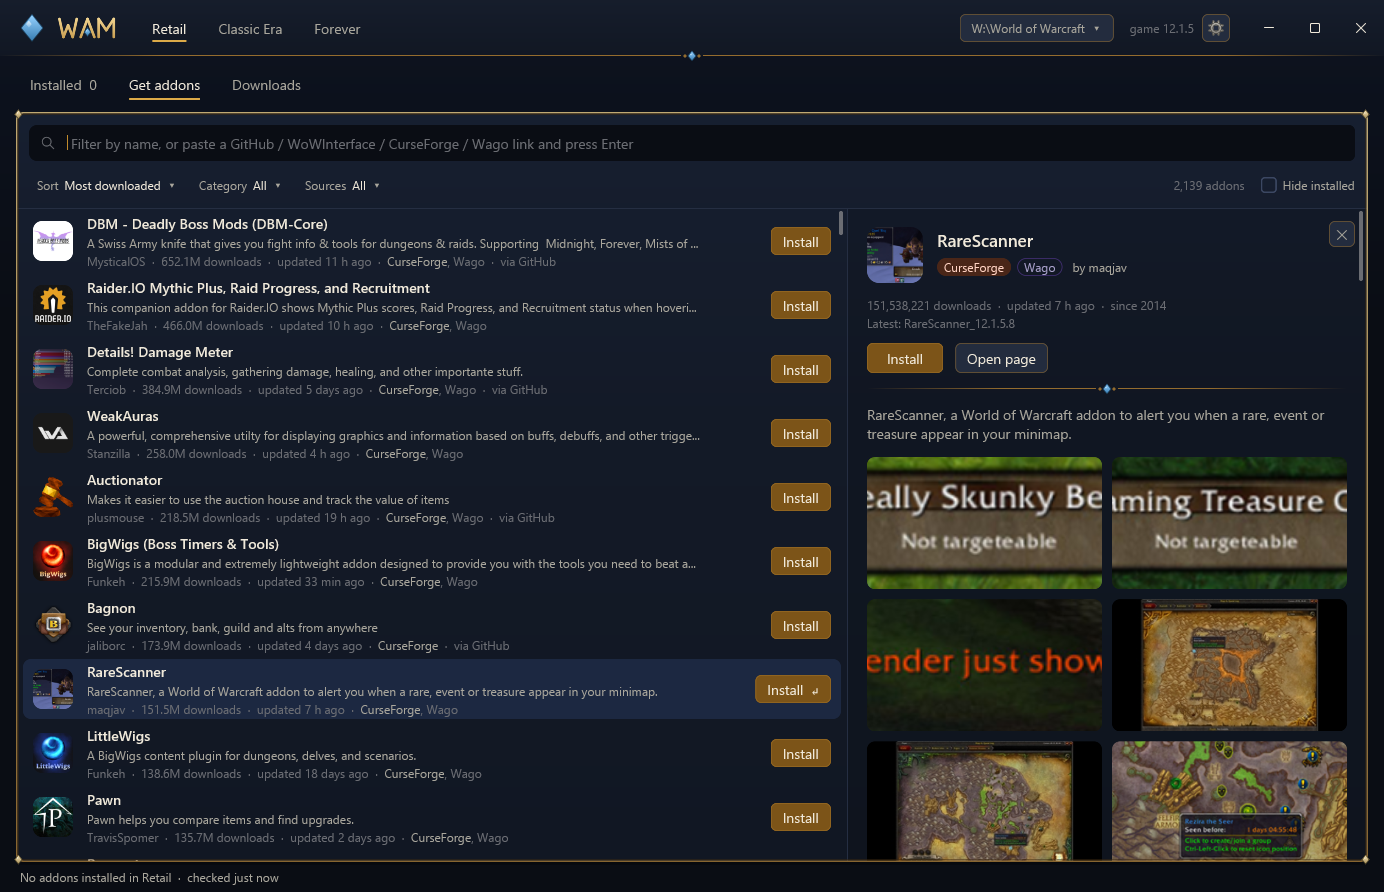
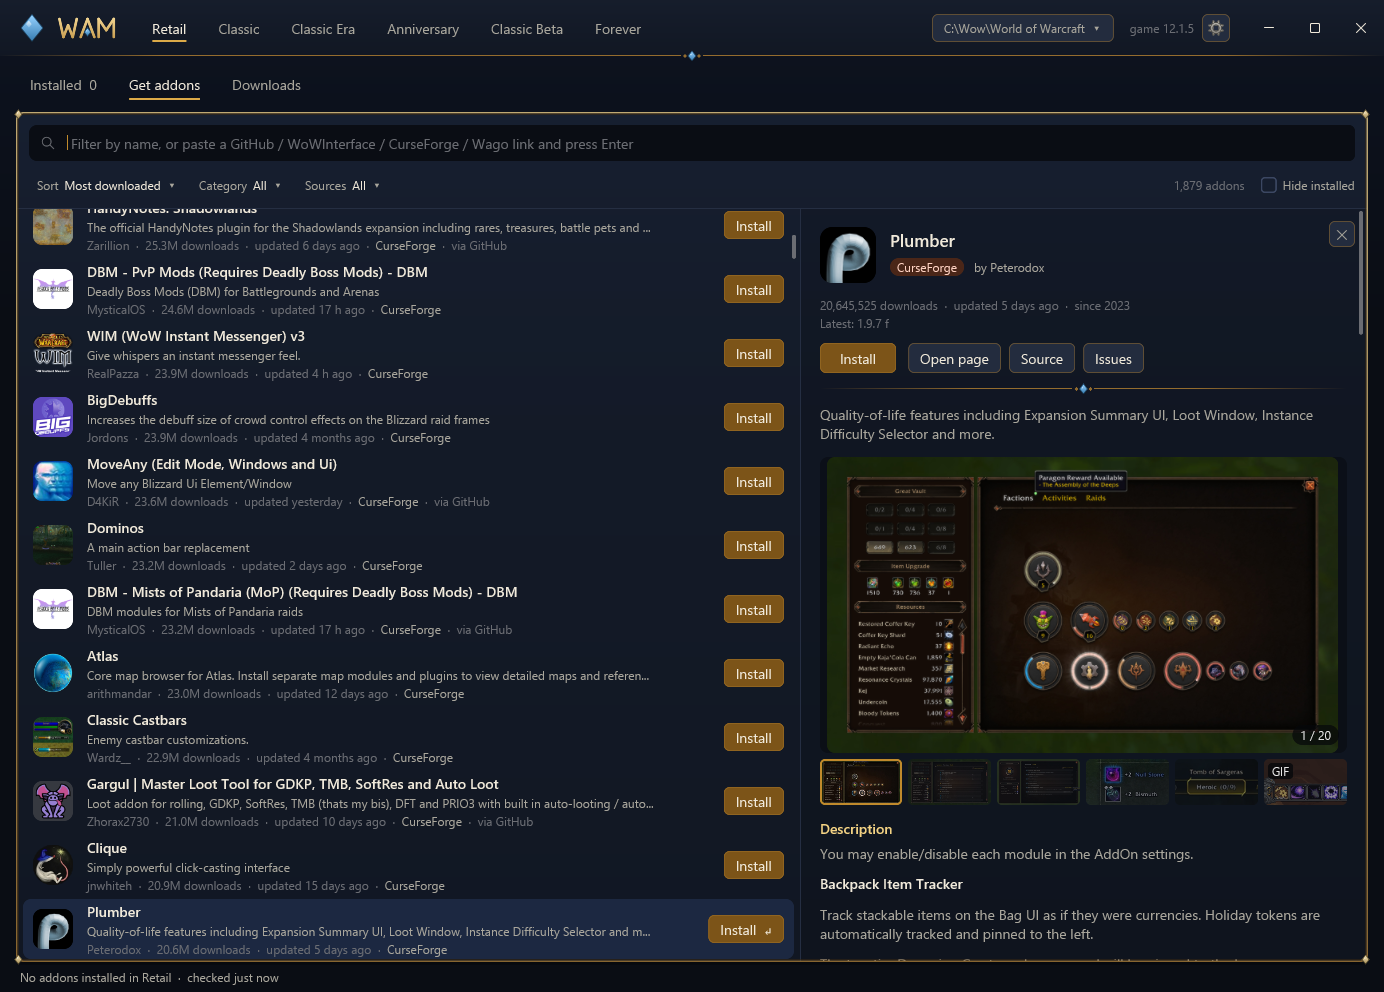
Read Markdown on WoWInterface; prepare 1.4.0
Many addons write their WoWInterface changelogs in Markdown: texts without any
BBCode tag are parsed as that. Release notes, version, README and its details
screenshot for 1.4.0.

diff --git a/src/main_test.c b/src/main_test.c
@@ -584,6 +584,13 @@ static void test_rich(Arena *a)
     for (int i = 0; i < (int)ArrayCount(own); i += 1) CHECK(rich_addon_site(str8_cstring(own[i])));
     for (int i = 0; i < (int)ArrayCount(others); i += 1) CHECK(!rich_addon_site(str8_cstring(others[i])));
 
+    // WoWInterface: BBCode, or Markdown when there's no tag of it.
+    d = markup_wowi(a, str8_lit("# Log\r\n\r\n## v2\r\n  - One thing,\r\n    two lines. Type\r\n    `/x y`.\r\n  - Other [New]\r\n\r\nv1\r\n=====\r\n* Old"), RICH_TEXT_MAX);
+    CHECK(block_of(d, "v2")->kind == RICH_HEADING && block_of(d, "One thing, two lines. Type ")->kind == RICH_ITEM && span_of(d, "/x y")->flags == RICH_CODE);
+    CHECK(block_of(d, "v1")->kind == RICH_HEADING && block_of(d, "Old")->kind == RICH_ITEM && span_of(d, "[New]")->text.size);
+    d = markup_wowi(a, str8_lit("[SIZE=\"2\"]Hi[/SIZE] [B]there[/B]"), RICH_TEXT_MAX);
+    CHECK(text_is(rich_plain(a, d), "Hi there") && span_of(d, "there")->flags == RICH_BOLD);
+
     // A category is asked for with its subcategories, unless they're too many.
     CHECK(text_is(cat_cf_query(a, 1006), "1006") && text_is(cat_cf_query(a, 1016), "1016,1039,1037") && text_is(cat_cf_query(a, 1023), "1023"));
     CHECK(!cat_cf_query(a, 0).size && !cat_cf_query(a, 1020).size);

diff --git a/src/core/catalog.c b/src/core/catalog.c
@@ -735,8 +735,8 @@ static AddonDetails cat_details_get(Mgr *m, String8 id)
         JSON *item = json_parse(a, r.body)->first;
         if (!r.ok || !item || item->type != JSON_OBJ) { d.error = str8_pushf(a, "WoWInterface: %.*s", S8F(r.ok ? str8_lit("not found") : r.error)); return d; }
         d.version = json_str(json_get(item, "UIVersion"));
-        d.description = rich_parse(a, json_str(json_get(item, "UIDescription")), MARKUP_BBCODE, RICH_TEXT_MAX);
-        d.changelog = rich_parse(a, json_str(json_get(item, "UIChangeLog")), MARKUP_BBCODE, CHANGELOG_MAX);
+        d.description = markup_wowi(a, json_str(json_get(item, "UIDescription")), RICH_TEXT_MAX);
+        d.changelog = markup_wowi(a, json_str(json_get(item, "UIChangeLog")), CHANGELOG_MAX);
         String8List shots = { 0 };
         json_each(img, json_get(item, "UIIMGs")) if (shots.count < SHOTS_MAX && json_str(img).size) shots_push(a, &shots, json_str(img), str8(0, 0));
         d.shots = shots_join(a, &shots); // (empty: the catalog's are shown)

diff --git a/src/core/markup.c b/src/core/markup.c
@@ -919,6 +919,14 @@ static Rich *markup_cf(Arena *a, String8 s, U64 max)
     return markup_looks_markdown(t) ? rich_parse(a, t, MARKUP_MARKDOWN, max) : doc;
 }
 
+// WoWInterface's texts: BBCode, or (many changelogs) Markdown, which has none of its tags.
+static Rich *markup_wowi(Arena *a, String8 s, U64 max)
+{
+    static char *tags[] = { "[b]", "[i]", "[u]", "[s]", "[*]", "[url", "[img", "[list", "[size", "[color", "[font", "[code", "[quote", "[center", "[indent", "[highlight", "[php", "[left", "[right" };
+    for (U32 i = 0; i < ArrayCount(tags); i += 1) if (str8_find(s, 0, str8_cstring(tags[i]), 1) < s.size) return rich_parse(a, s, MARKUP_BBCODE, max);
+    return rich_parse(a, s, MARKUP_MARKDOWN, max);
+}
+
 //- Changelogs that cover several versions
 
 // Whether a line names version `from`. Only whole versions: "1.2" mustn't match inside "11.2.5" or "1.25".

diff --git a/src/version.h b/src/version.h
@@ -4,8 +4,8 @@
 // resource compiler includes it too.
 
 #define WAM_VERSION_MAJOR 1
-#define WAM_VERSION_MINOR 3
+#define WAM_VERSION_MINOR 4
 #define WAM_VERSION_PATCH 0
-#define WAM_VERSION       "1.3.0" // the three numbers above (release.ps1 checks they agree)
+#define WAM_VERSION       "1.4.0" // the three numbers above (release.ps1 checks they agree)
 
 #define WAM_PUBLIC_URL    "https://github.com/davidsama/Wam" // releases and issues (Settings > About)

diff --git a/README.md b/README.md
@@ -47,10 +47,11 @@ away. Dependencies an addon requires on CurseForge are installed along with it.
 
 ## See before you install
 
-Select an addon to see its screenshots (click one for full size), description, latest changelog,
+Select an addon to see its screenshots in a gallery (GIFs play; click one for full size), its description
+and latest changelog the way the author formatted them,
 download count and age, with links to its page, source code, issue tracker and donation page.
 
-![The detail panel: screenshots, description, version and links](screenshots/details.png)
+![The detail panel: the gallery, the formatted description, version and links](screenshots/details.png)
 
 ## Updates in one click
 
@@ -77,7 +78,7 @@ Frostbound, Inferno, Fel, Bloodrage, Radiance, Wildgrowth and Stormcaller, or pl
 | | |
 |---|---|
 | **Settings backup** | Before updating, wam zips your `WTF` folder (where addons keep their settings), once a day, keeping the last 7. If the backup fails, nothing is updated. |
-| **Safe installs** | New files are unpacked to the side first and moved in only when everything worked. Anything else rolls back. |
+| **Safe installs** | New files are unpacked to the side first and moved in only when everything worked. Anything else rolls back, and a version that can't be put back is kept. |
 | **Your edits stay** | If you changed an addon's files, it's marked *edited locally* and skipped by Update all. |
 | **Undo-able removal** | Removed addons go to the Recycle Bin. wam offers to remove dependencies nothing else needs, and warns before you remove one something else still needs. |
 | **Downloads you made yourself** | Archives you download (`.zip`, `.rar`, `.7z`) show up in wam as soon as they land, with the game version they're built for. Install them with one click, or drop one on the window. |

diff --git a/CHANGES.md b/CHANGES.md
@@ -1,5 +1,25 @@
 # Changes
 
+## 1.4.0
+
+- **Descriptions and changelogs look right**: headings, bold and italic, lists, quotes, code, tables and
+  clickable links, in the details and in What's new. A link shows where it goes when you point at it.
+- **A screenshot gallery**: one large, uncropped picture with the others below it, up to 30 per addon
+  instead of 6. Click the picture for full size.
+- **Pictures in descriptions** show in place when they're on an addon site; others load when you click them.
+- **GIFs play** in the gallery's large picture and at full size. They pause while wam isn't the active
+  window, and stay still when Windows' animation effects are off.
+- **Details come up sooner**: at once when you click an addon or step with the arrow keys, and the
+  picture you're looking at loads before the others.
+- **Faster start**: about 80 ms sooner, measured on one PC.
+- **Searching within a category** finds more: wam asks CurseForge for that category. A search with few
+  results no longer keeps loading forever; a link at the end looks further when you want it to.
+- **Safer installs**: if an update fails and the old version can't be put back, wam keeps it and says where
+  it is, instead of deleting it.
+- **Damaged archives** are refused more carefully: a zip with a false file size could crash wam.
+- **Settings backups**: wam only ever deletes the backups it made itself, never other zips you keep next
+  to them.
+
 ## 1.3.0
 
 - **Themes**: pick one of ten in Settings. Eight are new and drawn from WoW's magic and melee: Void,
